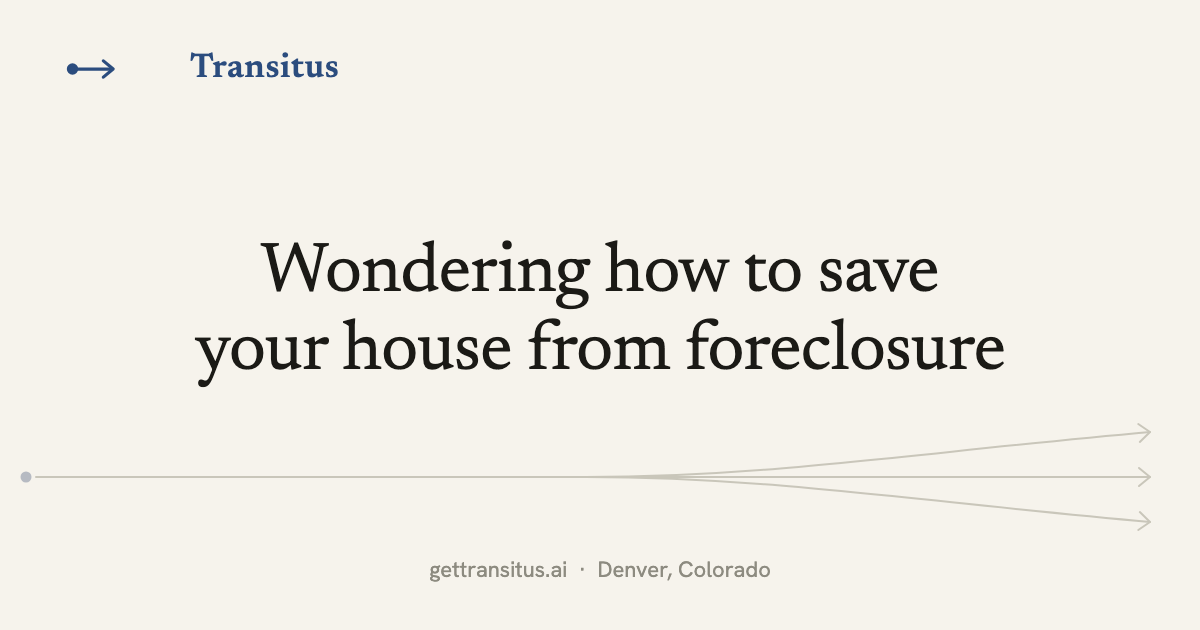
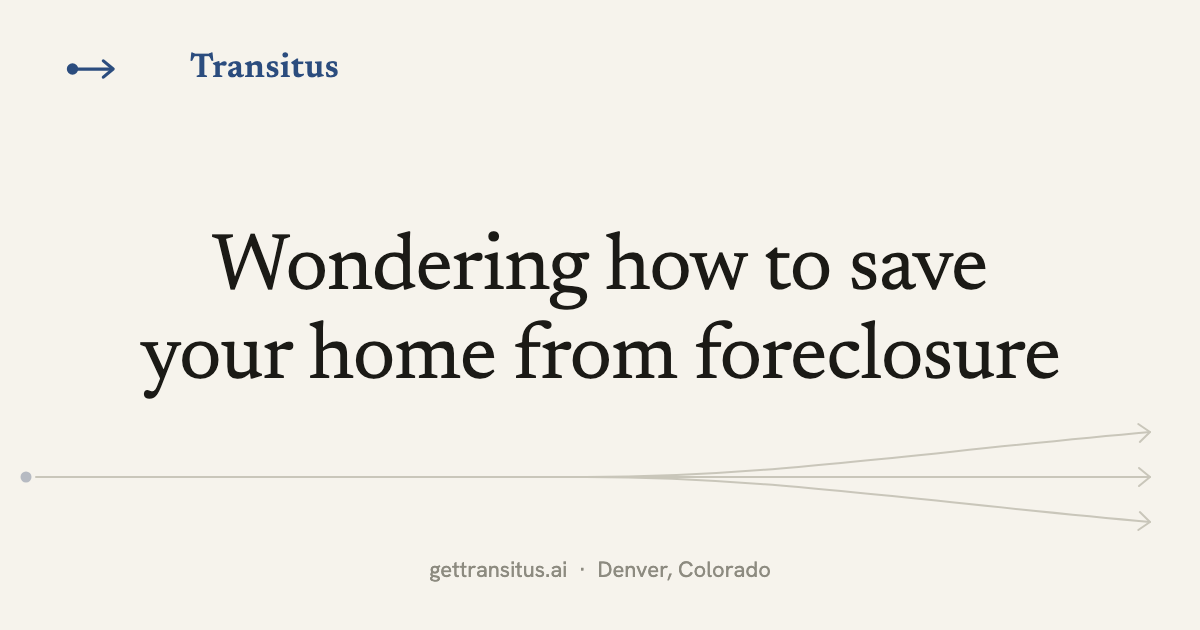
Make the two retitled articles consistent everywhere
The new titles now also apply to the on-page H1, the schema headline,
the share-image alt text, the homepage and guides listings, and the
share card images themselves (regenerated, since the headline is
rendered into the PNG). URLs unchanged.

Changed region(s): [[0.1233, 0.3619, 0.8942, 0.6333]]

diff --git a/how-to-save-my-house-from-foreclosure.html b/how-to-save-my-house-from-foreclosure.html
@@ -21,7 +21,7 @@
     <meta property="og:image" content="https://gettransitus.ai/og-how-to-save-my-house-from-foreclosure.png">
     <meta property="og:image:width" content="1200">
     <meta property="og:image:height" content="630">
-    <meta property="og:image:alt" content="Transitus — Wondering how to save your house from foreclosure">
+    <meta property="og:image:alt" content="Transitus — Wondering how to save your home from foreclosure">
     <meta name="twitter:card" content="summary_large_image">
     <link rel="preconnect" href="https://fonts.googleapis.com">
     <link rel="preconnect" href="https://fonts.gstatic.com" crossorigin>
@@ -116,7 +116,7 @@
         .guides-exit a{color:var(--navy);font-weight:600;text-decoration:underline;text-decoration-color:rgba(43,76,126,.3);text-underline-offset:3px}
         .guides-exit a:hover{text-decoration-color:var(--navy)}
     </style>
-    <script type="application/ld+json">{"@context":"https://schema.org","@type":"Article","headline":"Wondering how to save your house from foreclosure","description":"Asking how to save your house from foreclosure? Learn the legal ways to keep your home, the deadlines that protect you, and the free help already waiting.","author":{"@type":"Organization","name":"Transitus"},"datePublished":"2026-07-08","mainEntityOfPage":"https://gettransitus.ai/how-to-save-my-house-from-foreclosure"}</script>
+    <script type="application/ld+json">{"@context":"https://schema.org","@type":"Article","headline":"Wondering how to save your home from foreclosure","description":"Asking how to save your house from foreclosure? Learn the legal ways to keep your home, the deadlines that protect you, and the free help already waiting.","author":{"@type":"Organization","name":"Transitus"},"datePublished":"2026-07-08","mainEntityOfPage":"https://gettransitus.ai/how-to-save-my-house-from-foreclosure"}</script>
     <script>
         /* Source attribution: record HOW this visit reached the site, on the FIRST page only.
            sessionStorage, so a later organic visit is never credited to an old ad click. */
@@ -206,7 +206,7 @@ header .navburger span{background:#fff}
                         </div>
                     </div>
                     <nav class="breadcrumb"><span class="crumb-path"><a href="/">Home</a> &nbsp;/&nbsp; Articles &nbsp;/&nbsp; How to save my house from foreclosure</span><span class="read-time"><svg viewBox="0 0 24 24" fill="none" stroke="currentColor" stroke-width="2" stroke-linecap="round" stroke-linejoin="round" xmlns="http://www.w3.org/2000/svg"><circle cx="12" cy="12" r="10"/><polyline points="12 6 12 12 16 14"/></svg>5 min read</span></nav>
-                    <h1>Wondering how to save your house from foreclosure</h1>
+                    <h1>Wondering how to save your home from foreclosure</h1>
                     <p class="dek">Fighting to save your house, afraid it&#x27;s already lost.</p>
                     <div class="byline">
                         <svg viewBox="-2 0 34 16" fill="none" stroke="#2B4C7E" stroke-width="2" stroke-linecap="round" stroke-linejoin="round" xmlns="http://www.w3.org/2000/svg"><circle cx="3" cy="8" r="2.5" fill="#2B4C7E"/><line x1="6" y1="8" x2="26" y2="8"/><polyline points="22,3 28,8 22,13"/></svg>

diff --git a/removal-of-improvements-foreclosure.html b/removal-of-improvements-foreclosure.html
@@ -21,7 +21,7 @@
     <meta property="og:image" content="https://gettransitus.ai/og-removal-of-improvements-foreclosure.png">
     <meta property="og:image:width" content="1200">
     <meta property="og:image:height" content="630">
-    <meta property="og:image:alt" content="Transitus — Afraid to remove home improvements in foreclosure">
+    <meta property="og:image:alt" content="Transitus — Afraid to take home improvements in foreclosure">
     <meta name="twitter:card" content="summary_large_image">
     <meta property="og:image" content="https://gettransitus.ai/og-credit-bid.png">
     <meta property="og:image:width" content="1200">
@@ -170,7 +170,7 @@ header .navburger span{background:#fff}
   .nav-link:hover,.nav-link.active{color:#fff}
 }
 </style>
-    <script type="application/ld+json">{"@context":"https://schema.org","@type":"Article","headline":"Afraid to remove home improvements in foreclosure","description":"Leaving after foreclosure? See what you can take, what counts as removal of improvements in foreclosure, and what you still owe the house until title moves.","author":{"@type":"Organization","name":"Transitus"},"datePublished":"2026-09-13","mainEntityOfPage":"https://gettransitus.ai/removal-of-improvements-foreclosure"}</script>
+    <script type="application/ld+json">{"@context":"https://schema.org","@type":"Article","headline":"Afraid to take home improvements in foreclosure","description":"Leaving after foreclosure? See what you can take, what counts as removal of improvements in foreclosure, and what you still owe the house until title moves.","author":{"@type":"Organization","name":"Transitus"},"datePublished":"2026-09-13","mainEntityOfPage":"https://gettransitus.ai/removal-of-improvements-foreclosure"}</script>
 </head>
 <body>
     <header>
@@ -212,7 +212,7 @@ header .navburger span{background:#fff}
                         </div>
                     </div>
                     <nav class="breadcrumb"><span class="crumb-path"><a href="/">Home</a> &nbsp;/&nbsp; Articles &nbsp;/&nbsp; Removal of improvements foreclosure</span><span class="read-time"><svg viewBox="0 0 24 24" fill="none" stroke="currentColor" stroke-width="2" stroke-linecap="round" stroke-linejoin="round" xmlns="http://www.w3.org/2000/svg"><circle cx="12" cy="12" r="10"/><polyline points="12 6 12 12 16 14"/></svg>5 min read</span></nav>
-                    <h1>Afraid to remove home improvements in foreclosure</h1>
+                    <h1>Afraid to take home improvements in foreclosure</h1>
                     <p class="dek">Packing up, unsure what is still yours to take.</p>
                     <div class="byline">
                         <svg viewBox="-2 0 34 16" fill="none" stroke="#2B4C7E" stroke-width="2" stroke-linecap="round" stroke-linejoin="round" xmlns="http://www.w3.org/2000/svg"><circle cx="3" cy="8" r="2.5" fill="#2B4C7E"/><line x1="6" y1="8" x2="26" y2="8"/><polyline points="22,3 28,8 22,13"/></svg>

diff --git a/index.html b/index.html
@@ -543,7 +543,7 @@ header .navburger span{background:#fff}
                     </a>
                     <a class="arow" data-cat="protect" href="/removal-of-improvements-foreclosure">
                         <span class="aicon ai4"><svg viewBox="0 0 24 24" fill="none" stroke="currentColor" stroke-width="1.7" stroke-linecap="round" stroke-linejoin="round"><path d="M12 3l7 3v5c0 4.5-3 8-7 10-4-2-7-5.5-7-10V6z"/><path d="M9.1 12l2 2 3.7-4.2"/></svg></span>
-                        <span class="atext"><span class="acat">Protecting yourself</span><h3>Afraid to remove home improvements in foreclosure</h3><p>The line between what is yours and what stays with the house.</p></span>
+                        <span class="atext"><span class="acat">Protecting yourself</span><h3>Afraid to take home improvements in foreclosure</h3><p>The line between what is yours and what stays with the house.</p></span>
                         <span class="aarrow">&rarr;</span>
                     </a>
                     <a class="arow" data-cat="understand" href="/hoa-foreclosure-colorado">
@@ -663,7 +663,7 @@ header .navburger span{background:#fff}
                     </a>
                     <a class="arow" data-all="1" data-cat="keep" href="/how-to-save-my-house-from-foreclosure">
                         <span class="aicon ai2"><svg viewBox="0 0 24 24" fill="none" stroke="currentColor" stroke-width="1.7" stroke-linecap="round" stroke-linejoin="round"><path d="M3 10.5 12 3l9 7.5"/><path d="M5 9.5V20h14V9.5"/><path d="M9.5 20v-5h5v5"/></svg></span>
-                        <span class="atext"><span class="acat">Keeping your home</span><h3>Wondering how to save your house from foreclosure</h3><p>The real levers that stop a foreclosure are closer than you think</p></span>
+                        <span class="atext"><span class="acat">Keeping your home</span><h3>Wondering how to save your home from foreclosure</h3><p>The real levers that stop a foreclosure are closer than you think</p></span>
                         <span class="aarrow">&rarr;</span>
                     </a>
                     <a class="arow" data-all="1" data-cat="sell" href="/can-i-sell-my-home-before-foreclosure">

diff --git a/guides.html b/guides.html
@@ -208,7 +208,7 @@ header .navburger span{background:#fff}
                     </a>
                     <a class="arow" data-cat="keep" data-all="1" href="/how-to-save-my-house-from-foreclosure">
                         <span class="aicon ai2"><svg viewBox="0 0 24 24" fill="none" stroke="currentColor" stroke-width="1.7" stroke-linecap="round" stroke-linejoin="round"><path d="M3 10.5 12 3l9 7.5"/><path d="M5 9.5V20h14V9.5"/><path d="M9.5 20v-5h5v5"/></svg></span>
-                        <span class="atext"><span class="acat">Keeping your home</span><h3>Wondering how to save your house from foreclosure</h3><p>The real levers that stop a foreclosure are closer than you think</p></span>
+                        <span class="atext"><span class="acat">Keeping your home</span><h3>Wondering how to save your home from foreclosure</h3><p>The real levers that stop a foreclosure are closer than you think</p></span>
                         <span class="aarrow">&rarr;</span>
                     </a>
                     <a class="arow" data-cat="keep" data-all="1" href="/mortgage-reinstatement">
@@ -423,7 +423,7 @@ header .navburger span{background:#fff}
                     </a>
                     <a class="arow" data-cat="protect" href="/removal-of-improvements-foreclosure">
                         <span class="aicon ai4"><svg viewBox="0 0 24 24" fill="none" stroke="currentColor" stroke-width="1.7" stroke-linecap="round" stroke-linejoin="round"><path d="M12 3l7 3v5c0 4.5-3 8-7 10-4-2-7-5.5-7-10V6z"/><path d="M9.1 12l2 2 3.7-4.2"/></svg></span>
-                        <span class="atext"><span class="acat">Protecting yourself</span><h3>Afraid to remove home improvements in foreclosure</h3><p>The line between what is yours and what stays with the house.</p></span>
+                        <span class="atext"><span class="acat">Protecting yourself</span><h3>Afraid to take home improvements in foreclosure</h3><p>The line between what is yours and what stays with the house.</p></span>
                         <span class="aarrow">&rarr;</span>
                     </a>
                     <a class="arow" data-cat="understand" href="/tax-lien-sale-colorado">
